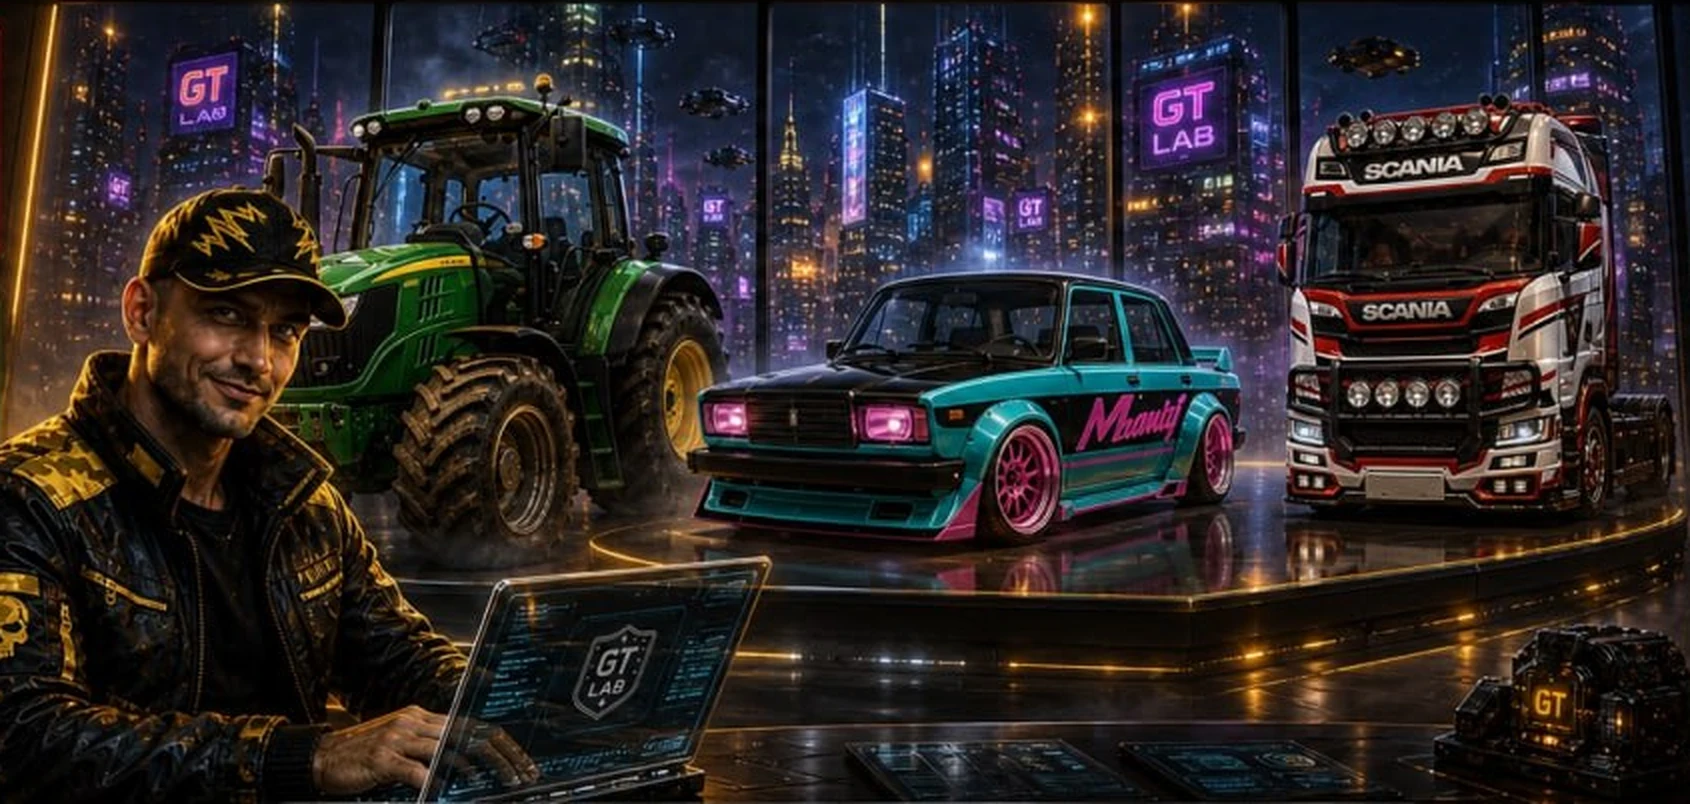
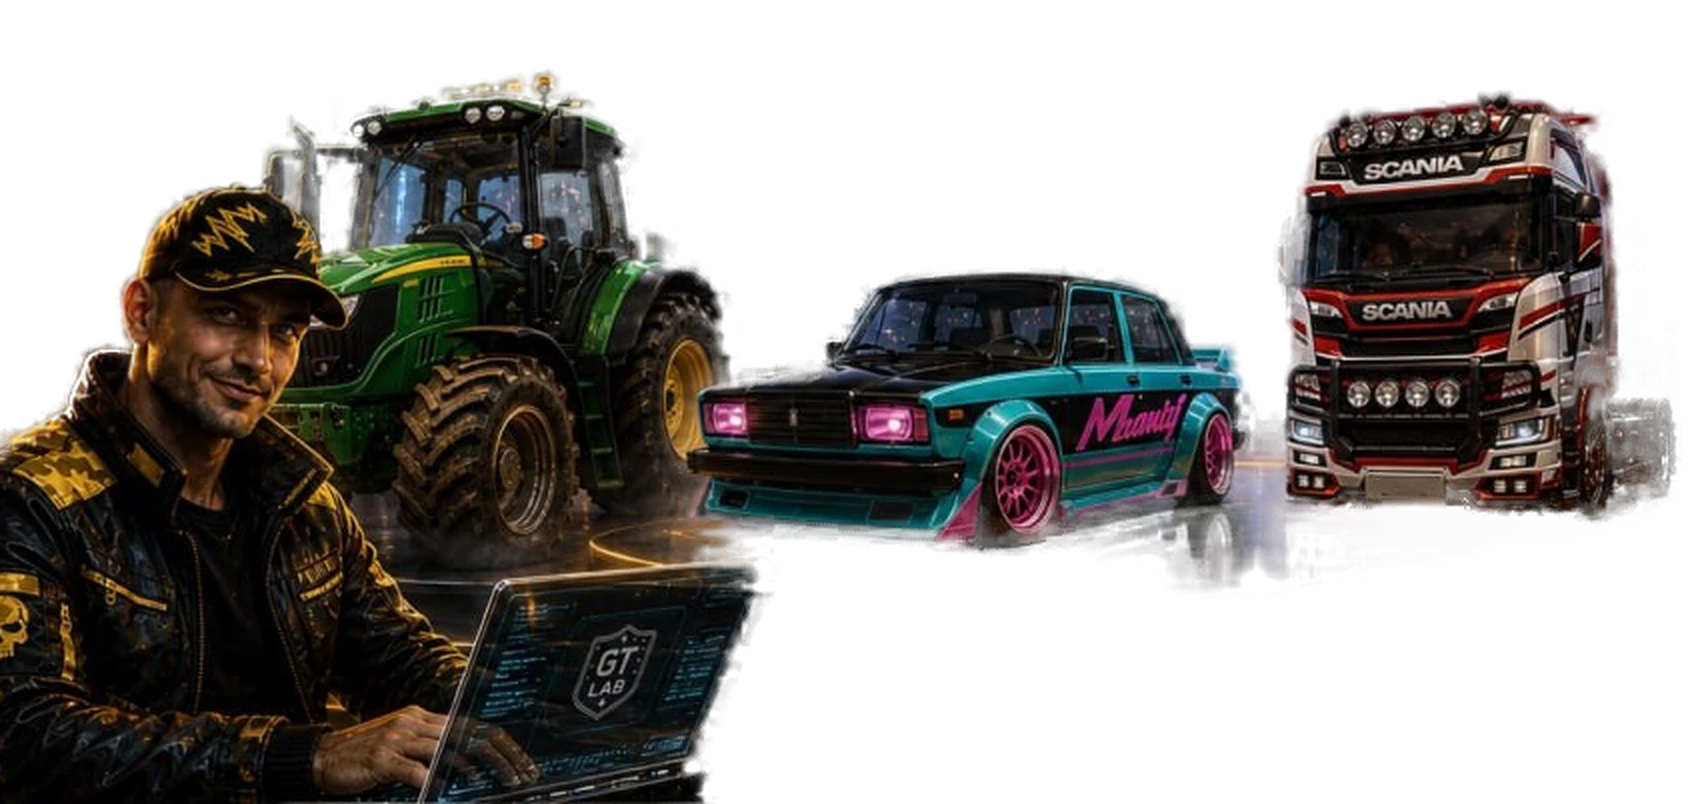
fix: сцена без фону, компактна розкладка в один екран
- міський фон за технікою видалено, PNG-прозорість
- колонки вирівняно по верху, центральна на всю висоту
- відступи, іконки й шрифти зменшено — влазить у 1440x780 без прокрутки
- маркетплейс і показники притиснуто до низу центру

Відкат: e95a3add

diff --git a/gt-cyber.html b/gt-cyber.html
@@ -40,21 +40,19 @@ body{font-family:'Montserrat',system-ui,sans-serif;color:var(--txt);
   background:repeating-linear-gradient(180deg,transparent 0 3px,rgba(255,255,255,.014) 3px 4px)}
 
 /* Центральна сцена */
-.scene{position:absolute;left:50%;top:11%;transform:translateX(-50%);
-  width:60%;max-width:900px;z-index:1;pointer-events:none;
-  -webkit-mask-image:radial-gradient(ellipse 78% 82% at 50% 45%,#000 52%,transparent 88%);
-  mask-image:radial-gradient(ellipse 78% 82% at 50% 45%,#000 52%,transparent 88%);
-  filter:saturate(1.12) contrast(1.05)}
+.scene{position:absolute;left:50%;top:12%;transform:translateX(-50%);
+  width:57%;max-width:860px;z-index:1;pointer-events:none;
+  filter:saturate(1.15) contrast(1.04) drop-shadow(0 18px 44px rgba(0,0,0,.75))}
 
-.layer{position:relative;z-index:3;display:grid;
+.layer{position:relative;z-index:3;display:grid;align-items:start;
   grid-template-columns:minmax(250px,24%) 1fr minmax(250px,24%);
-  gap:11px;padding:13px}
+  gap:9px;padding:11px}
 
 /* ── Шапка ── */
 .hdr{grid-column:1/-1;display:grid;grid-template-columns:auto 1fr auto;align-items:center;gap:13px}
 .panel{background:var(--glass);border:1px solid var(--edge);border-radius:13px;
   backdrop-filter:blur(10px);box-shadow:0 8px 26px -12px #000,inset 0 1px 0 rgba(255,255,255,.06)}
-.chip{display:flex;align-items:center;gap:10px;padding:9px 15px}
+.chip{display:flex;align-items:center;gap:10px;padding:8px 14px}
 .chip .ic{width:24px;height:24px;flex:0 0 auto;color:var(--red)}
 .chip b{display:block;font-size:.8rem;font-weight:800;letter-spacing:.04em;line-height:1.25}
 .chip small{display:block;font-family:'Share Tech Mono',monospace;font-size:.72rem;color:var(--cyan)}
@@ -81,12 +79,12 @@ body{font-family:'Montserrat',system-ui,sans-serif;color:var(--txt);
 .hud i{color:var(--green);font-style:normal}
 
 /* ── Картки ── */
-.col{display:flex;flex-direction:column;gap:11px}
-.col.mid{justify-content:flex-end;gap:11px}
+.col{display:flex;flex-direction:column;gap:9px}
+.col.mid{align-self:stretch;justify-content:flex-end;gap:9px}
 
 .card{position:relative;display:block;text-decoration:none;color:inherit;overflow:hidden;
   background:var(--glass);border:1px solid var(--edge);border-radius:15px;
-  backdrop-filter:blur(10px);padding:13px 14px 12px;
+  backdrop-filter:blur(10px);padding:11px 13px 10px;
   box-shadow:0 10px 30px -14px #000,inset 0 1px 0 rgba(255,255,255,.06);
   transition:transform .2s cubic-bezier(.22,1,.36,1),box-shadow .2s,border-color .2s}
 .card::before{content:'';position:absolute;left:0;top:0;bottom:0;width:3px;
@@ -96,18 +94,18 @@ body{font-family:'Montserrat',system-ui,sans-serif;color:var(--txt);
 .card:hover{transform:translateY(-3px);border-color:var(--ac);
   box-shadow:0 20px 44px -16px #000,0 0 30px -10px var(--ac),inset 0 1px 0 rgba(255,255,255,.1)}
 
-.top{display:flex;align-items:flex-start;gap:11px;margin-bottom:9px}
-.icn{width:42px;height:42px;flex:0 0 auto;border-radius:11px;display:grid;place-items:center;
+.top{display:flex;align-items:flex-start;gap:10px;margin-bottom:7px}
+.icn{width:38px;height:38px;flex:0 0 auto;border-radius:11px;display:grid;place-items:center;
   background:rgba(255,255,255,.05);border:1px solid var(--ac);
   box-shadow:0 0 18px -6px var(--ac),inset 0 0 14px -6px var(--ac)}
-.icn svg{width:24px;height:24px;color:var(--ac)}
+.icn svg{width:22px;height:22px;color:var(--ac)}
 .tt{min-width:0;flex:1}
-.name{display:block;font-size:.95rem;font-weight:900;letter-spacing:.03em;color:#fff;line-height:1.1}
-.sub{display:block;margin-top:2px;font-size:.72rem;font-weight:800;letter-spacing:.05em;color:var(--ac)}
-.desc{font-family:'Share Tech Mono',monospace;font-size:.62rem;letter-spacing:.05em;
-  color:var(--dim);text-transform:uppercase;margin-bottom:10px}
+.name{display:block;font-size:.88rem;font-weight:900;letter-spacing:.03em;color:#fff;line-height:1.1}
+.sub{display:block;margin-top:1px;font-size:.68rem;font-weight:800;letter-spacing:.05em;color:var(--ac)}
+.desc{font-family:'Share Tech Mono',monospace;font-size:.58rem;letter-spacing:.04em;
+  color:var(--dim);text-transform:uppercase;margin-bottom:8px}
 
-.btn{display:inline-flex;align-items:center;gap:7px;padding:7px 14px;border-radius:8px;
+.btn{display:inline-flex;align-items:center;gap:7px;padding:6px 13px;border-radius:8px;
   font-size:.62rem;font-weight:900;letter-spacing:.13em;text-transform:uppercase;
   color:#fff;background:linear-gradient(135deg,var(--ac),color-mix(in srgb,var(--ac) 45%,#000));
   box-shadow:0 6px 18px -8px var(--ac);transition:transform .18s,box-shadow .18s}
@@ -121,8 +119,8 @@ body{font-family:'Montserrat',system-ui,sans-serif;color:var(--txt);
 .a-blue{--ac:#4A7BFF} .a-orange{--ac:#FF8A1E}
 
 /* ── Маркетплейс ── */
-.market{position:relative;display:flex;align-items:center;gap:13px;overflow:hidden;
-  border-radius:15px;padding:13px 17px;text-decoration:none;color:#fff;
+.market{position:relative;display:flex;align-items:center;gap:12px;overflow:hidden;
+  border-radius:15px;padding:11px 16px;text-decoration:none;color:#fff;
   background:linear-gradient(118deg,rgba(255,45,142,.9),rgba(168,85,247,.85));
   border:1px solid rgba(255,255,255,.3);
   box-shadow:0 16px 42px -14px rgba(255,45,142,.7),inset 0 1px 0 rgba(255,255,255,.35);
@@ -152,9 +150,9 @@ body{font-family:'Montserrat',system-ui,sans-serif;color:var(--txt);
   100%{opacity:0;transform:translate3d(var(--dx,25px),-470px,0) rotate(var(--rot,190deg)) scale(1.1)}}
 
 /* ── Показники ── */
-.stats{display:flex;flex-wrap:wrap;justify-content:center;gap:6px;
+.stats{display:flex;flex-wrap:wrap;justify-content:center;gap:5px;
   background:var(--glass);border:1px solid var(--edge);border-radius:15px;
-  padding:11px 13px;backdrop-filter:blur(10px);
+  padding:9px 12px;backdrop-filter:blur(10px);
   box-shadow:0 10px 30px -14px #000,inset 0 1px 0 rgba(255,255,255,.06)}
 .stat{display:flex;align-items:center;gap:8px;padding:0 10px}
 .stat svg{width:25px;height:25px;flex:0 0 auto;color:var(--cyan)}
@@ -164,8 +162,8 @@ body{font-family:'Montserrat',system-ui,sans-serif;color:var(--txt);
 
 /* ── Нижня панель ── */
 .bar{grid-column:1/-1;display:grid;grid-template-columns:repeat(7,1fr);gap:8px;margin-top:2px}
-.bar a{display:flex;align-items:center;justify-content:center;gap:8px;text-decoration:none;
-  border-radius:11px;padding:13px 8px;color:#fff;border:1px solid rgba(255,255,255,.16);
+.bar a{display:flex;align-items:center;justify-content:center;gap:7px;text-decoration:none;
+  border-radius:10px;padding:11px 7px;color:#fff;border:1px solid rgba(255,255,255,.16);
   font-size:.63rem;font-weight:900;letter-spacing:.11em;text-transform:uppercase;
   background:linear-gradient(150deg,color-mix(in srgb,var(--ac) 72%,#000),color-mix(in srgb,var(--ac) 32%,#000));
   box-shadow:0 8px 22px -12px var(--ac),inset 0 1px 0 rgba(255,255,255,.2);

diff --git a/index.html b/index.html
@@ -40,21 +40,19 @@ body{font-family:'Montserrat',system-ui,sans-serif;color:var(--txt);
   background:repeating-linear-gradient(180deg,transparent 0 3px,rgba(255,255,255,.014) 3px 4px)}
 
 /* Центральна сцена */
-.scene{position:absolute;left:50%;top:11%;transform:translateX(-50%);
-  width:60%;max-width:900px;z-index:1;pointer-events:none;
-  -webkit-mask-image:radial-gradient(ellipse 78% 82% at 50% 45%,#000 52%,transparent 88%);
-  mask-image:radial-gradient(ellipse 78% 82% at 50% 45%,#000 52%,transparent 88%);
-  filter:saturate(1.12) contrast(1.05)}
+.scene{position:absolute;left:50%;top:12%;transform:translateX(-50%);
+  width:57%;max-width:860px;z-index:1;pointer-events:none;
+  filter:saturate(1.15) contrast(1.04) drop-shadow(0 18px 44px rgba(0,0,0,.75))}
 
-.layer{position:relative;z-index:3;display:grid;
+.layer{position:relative;z-index:3;display:grid;align-items:start;
   grid-template-columns:minmax(250px,24%) 1fr minmax(250px,24%);
-  gap:11px;padding:13px}
+  gap:9px;padding:11px}
 
 /* ── Шапка ── */
 .hdr{grid-column:1/-1;display:grid;grid-template-columns:auto 1fr auto;align-items:center;gap:13px}
 .panel{background:var(--glass);border:1px solid var(--edge);border-radius:13px;
   backdrop-filter:blur(10px);box-shadow:0 8px 26px -12px #000,inset 0 1px 0 rgba(255,255,255,.06)}
-.chip{display:flex;align-items:center;gap:10px;padding:9px 15px}
+.chip{display:flex;align-items:center;gap:10px;padding:8px 14px}
 .chip .ic{width:24px;height:24px;flex:0 0 auto;color:var(--red)}
 .chip b{display:block;font-size:.8rem;font-weight:800;letter-spacing:.04em;line-height:1.25}
 .chip small{display:block;font-family:'Share Tech Mono',monospace;font-size:.72rem;color:var(--cyan)}
@@ -81,12 +79,12 @@ body{font-family:'Montserrat',system-ui,sans-serif;color:var(--txt);
 .hud i{color:var(--green);font-style:normal}
 
 /* ── Картки ── */
-.col{display:flex;flex-direction:column;gap:11px}
-.col.mid{justify-content:flex-end;gap:11px}
+.col{display:flex;flex-direction:column;gap:9px}
+.col.mid{align-self:stretch;justify-content:flex-end;gap:9px}
 
 .card{position:relative;display:block;text-decoration:none;color:inherit;overflow:hidden;
   background:var(--glass);border:1px solid var(--edge);border-radius:15px;
-  backdrop-filter:blur(10px);padding:13px 14px 12px;
+  backdrop-filter:blur(10px);padding:11px 13px 10px;
   box-shadow:0 10px 30px -14px #000,inset 0 1px 0 rgba(255,255,255,.06);
   transition:transform .2s cubic-bezier(.22,1,.36,1),box-shadow .2s,border-color .2s}
 .card::before{content:'';position:absolute;left:0;top:0;bottom:0;width:3px;
@@ -96,18 +94,18 @@ body{font-family:'Montserrat',system-ui,sans-serif;color:var(--txt);
 .card:hover{transform:translateY(-3px);border-color:var(--ac);
   box-shadow:0 20px 44px -16px #000,0 0 30px -10px var(--ac),inset 0 1px 0 rgba(255,255,255,.1)}
 
-.top{display:flex;align-items:flex-start;gap:11px;margin-bottom:9px}
-.icn{width:42px;height:42px;flex:0 0 auto;border-radius:11px;display:grid;place-items:center;
+.top{display:flex;align-items:flex-start;gap:10px;margin-bottom:7px}
+.icn{width:38px;height:38px;flex:0 0 auto;border-radius:11px;display:grid;place-items:center;
   background:rgba(255,255,255,.05);border:1px solid var(--ac);
   box-shadow:0 0 18px -6px var(--ac),inset 0 0 14px -6px var(--ac)}
-.icn svg{width:24px;height:24px;color:var(--ac)}
+.icn svg{width:22px;height:22px;color:var(--ac)}
 .tt{min-width:0;flex:1}
-.name{display:block;font-size:.95rem;font-weight:900;letter-spacing:.03em;color:#fff;line-height:1.1}
-.sub{display:block;margin-top:2px;font-size:.72rem;font-weight:800;letter-spacing:.05em;color:var(--ac)}
-.desc{font-family:'Share Tech Mono',monospace;font-size:.62rem;letter-spacing:.05em;
-  color:var(--dim);text-transform:uppercase;margin-bottom:10px}
+.name{display:block;font-size:.88rem;font-weight:900;letter-spacing:.03em;color:#fff;line-height:1.1}
+.sub{display:block;margin-top:1px;font-size:.68rem;font-weight:800;letter-spacing:.05em;color:var(--ac)}
+.desc{font-family:'Share Tech Mono',monospace;font-size:.58rem;letter-spacing:.04em;
+  color:var(--dim);text-transform:uppercase;margin-bottom:8px}
 
-.btn{display:inline-flex;align-items:center;gap:7px;padding:7px 14px;border-radius:8px;
+.btn{display:inline-flex;align-items:center;gap:7px;padding:6px 13px;border-radius:8px;
   font-size:.62rem;font-weight:900;letter-spacing:.13em;text-transform:uppercase;
   color:#fff;background:linear-gradient(135deg,var(--ac),color-mix(in srgb,var(--ac) 45%,#000));
   box-shadow:0 6px 18px -8px var(--ac);transition:transform .18s,box-shadow .18s}
@@ -121,8 +119,8 @@ body{font-family:'Montserrat',system-ui,sans-serif;color:var(--txt);
 .a-blue{--ac:#4A7BFF} .a-orange{--ac:#FF8A1E}
 
 /* ── Маркетплейс ── */
-.market{position:relative;display:flex;align-items:center;gap:13px;overflow:hidden;
-  border-radius:15px;padding:13px 17px;text-decoration:none;color:#fff;
+.market{position:relative;display:flex;align-items:center;gap:12px;overflow:hidden;
+  border-radius:15px;padding:11px 16px;text-decoration:none;color:#fff;
   background:linear-gradient(118deg,rgba(255,45,142,.9),rgba(168,85,247,.85));
   border:1px solid rgba(255,255,255,.3);
   box-shadow:0 16px 42px -14px rgba(255,45,142,.7),inset 0 1px 0 rgba(255,255,255,.35);
@@ -152,9 +150,9 @@ body{font-family:'Montserrat',system-ui,sans-serif;color:var(--txt);
   100%{opacity:0;transform:translate3d(var(--dx,25px),-470px,0) rotate(var(--rot,190deg)) scale(1.1)}}
 
 /* ── Показники ── */
-.stats{display:flex;flex-wrap:wrap;justify-content:center;gap:6px;
+.stats{display:flex;flex-wrap:wrap;justify-content:center;gap:5px;
   background:var(--glass);border:1px solid var(--edge);border-radius:15px;
-  padding:11px 13px;backdrop-filter:blur(10px);
+  padding:9px 12px;backdrop-filter:blur(10px);
   box-shadow:0 10px 30px -14px #000,inset 0 1px 0 rgba(255,255,255,.06)}
 .stat{display:flex;align-items:center;gap:8px;padding:0 10px}
 .stat svg{width:25px;height:25px;flex:0 0 auto;color:var(--cyan)}
@@ -164,8 +162,8 @@ body{font-family:'Montserrat',system-ui,sans-serif;color:var(--txt);
 
 /* ── Нижня панель ── */
 .bar{grid-column:1/-1;display:grid;grid-template-columns:repeat(7,1fr);gap:8px;margin-top:2px}
-.bar a{display:flex;align-items:center;justify-content:center;gap:8px;text-decoration:none;
-  border-radius:11px;padding:13px 8px;color:#fff;border:1px solid rgba(255,255,255,.16);
+.bar a{display:flex;align-items:center;justify-content:center;gap:7px;text-decoration:none;
+  border-radius:10px;padding:11px 7px;color:#fff;border:1px solid rgba(255,255,255,.16);
   font-size:.63rem;font-weight:900;letter-spacing:.11em;text-transform:uppercase;
   background:linear-gradient(150deg,color-mix(in srgb,var(--ac) 72%,#000),color-mix(in srgb,var(--ac) 32%,#000));
   box-shadow:0 8px 22px -12px var(--ac),inset 0 1px 0 rgba(255,255,255,.2);
